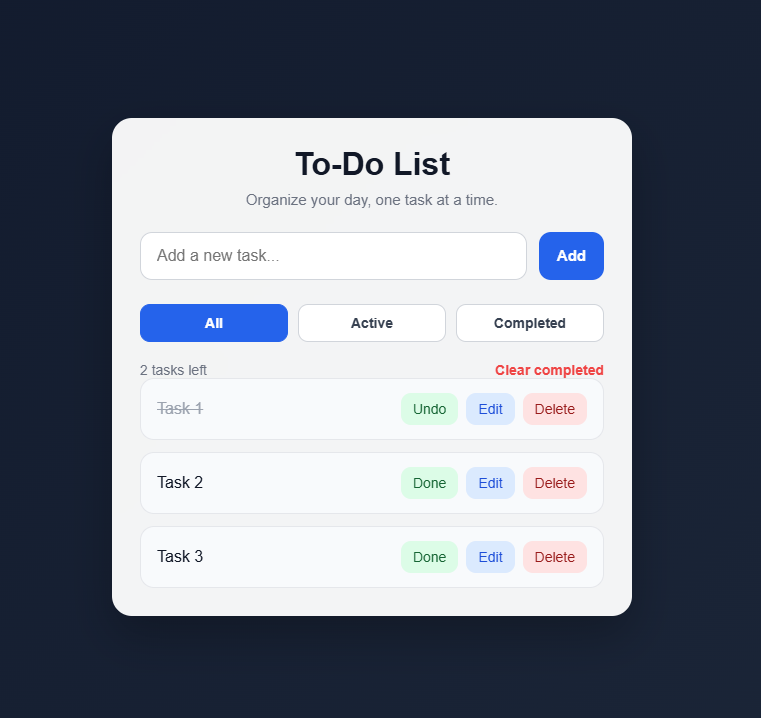
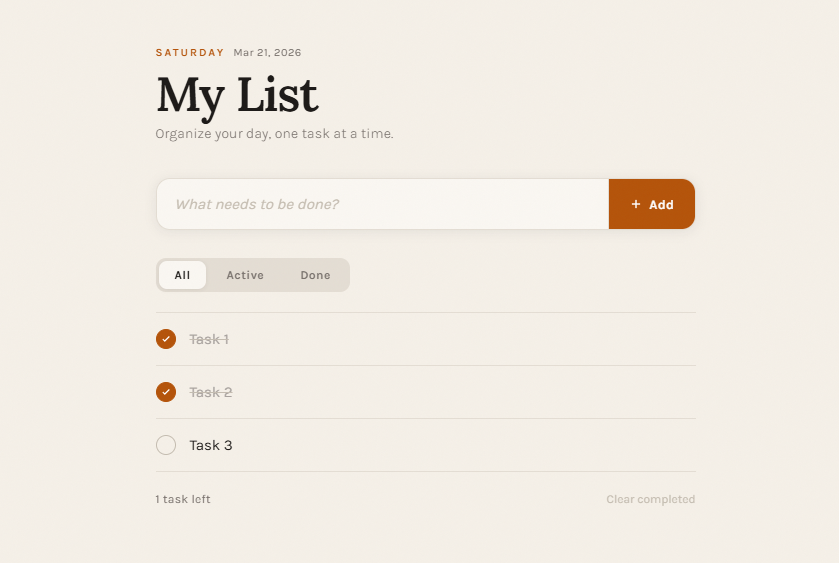
added third project to the portfolio

diff --git a/index.html b/index.html
@@ -603,13 +603,12 @@
 
         <div class="project-card">
           <div class="project-image">
-            <div class="project-placeholder">🌦</div>
+            <img src="images/weather-app-preview.jpg" alt="Weather-App project preview" />
           </div>
           <div class="project-content">
             <h3 class="project-title">Weather App</h3>
             <p class="project-description">
-              Coming soon. A project built to practice API integration, dynamic data rendering,
-              search functionality, and responsive interface design.
+              A responsive weather application that fetches real-time data from an external API. Includes city search, geolocation support, dynamic background based on weather conditions, loading states and error handling.
             </p>
 
             <ul class="project-highlights">
@@ -619,13 +618,16 @@
             </ul>
 
             <div class="project-tags">
+              <span class="tag">HTML</span>
+              <span class="tag">CSS</span>
               <span class="tag">JavaScript</span>
               <span class="tag">API</span>
               <span class="tag">Responsive</span>
             </div>
 
             <div class="project-actions">
-              <a href="#" class="project-btn project-btn-secondary">In Progress</a>
+              <<a href="weather-app/index.html" class="project-btn project-btn-primary" target="_blank">Live Demo</a>
+              <a href="https://github.com/TeodorRazvan/TeodorRazvan.github.io/tree/main/weather-app" class="project-btn project-btn-secondary" target="_blank">Source Code</a>
             </div>
           </div>
         </div>

diff --git a/weather-app/README.md b/weather-app/README.md
@@ -1,0 +1,49 @@
+# Weather App
+
+A modern and responsive weather application built with HTML, CSS, and JavaScript.  
+It fetches real-time weather data from an external API and displays detailed information about the selected city or the user's current location.
+
+---
+
+## Features
+
+- Search weather by city name
+- Get weather using current location (Geolocation API)
+- Display temperature, weather condition, humidity, and wind speed
+- Dynamic background based on weather conditions
+- Loading state with spinner
+- Error handling for invalid input or API issues
+- Fully responsive design
+
+---
+
+## Technologies Used
+
+- HTML5
+- CSS3 (Flexbox, Responsive Design)
+- JavaScript (ES6+)
+- Fetch API
+- OpenWeather API
+- Geolocation API
+
+---
+
+## How to Run the Project
+
+1. Clone the repository:
+
+git clone https://github.com/your-username/weather-app.git
+
+2. Navigate to the project folder:
+cd weather-app
+
+3. Open index.html in your browser
+API Setup
+
+This project uses the OpenWeather API.
+
+Go to: https://openweathermap.org/
+Create an account
+Generate an API key
+Replace this line in script.js:
+const API_KEY = "YOUR_API_KEY_HERE";
